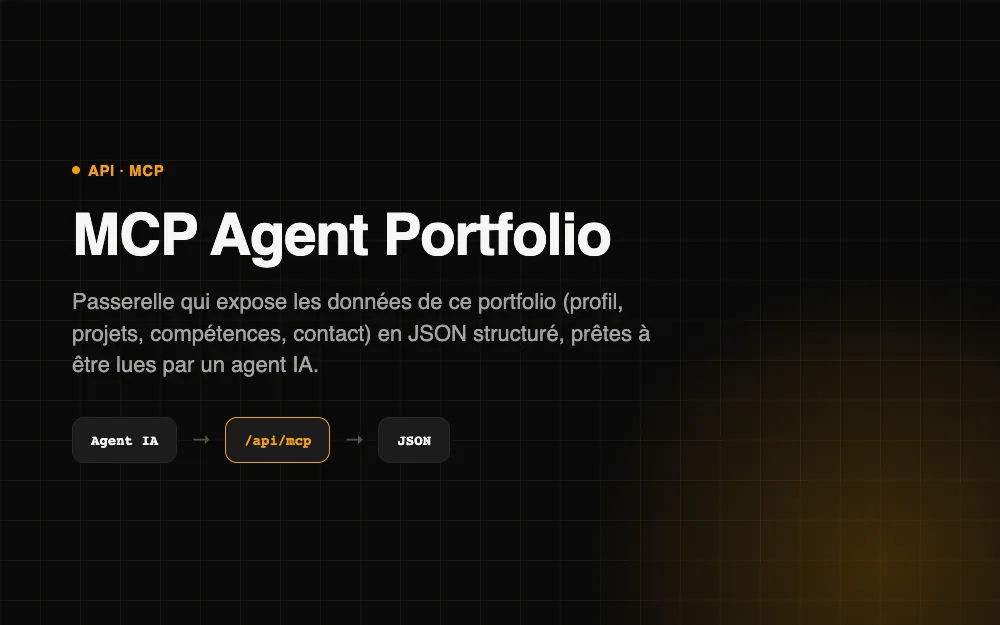
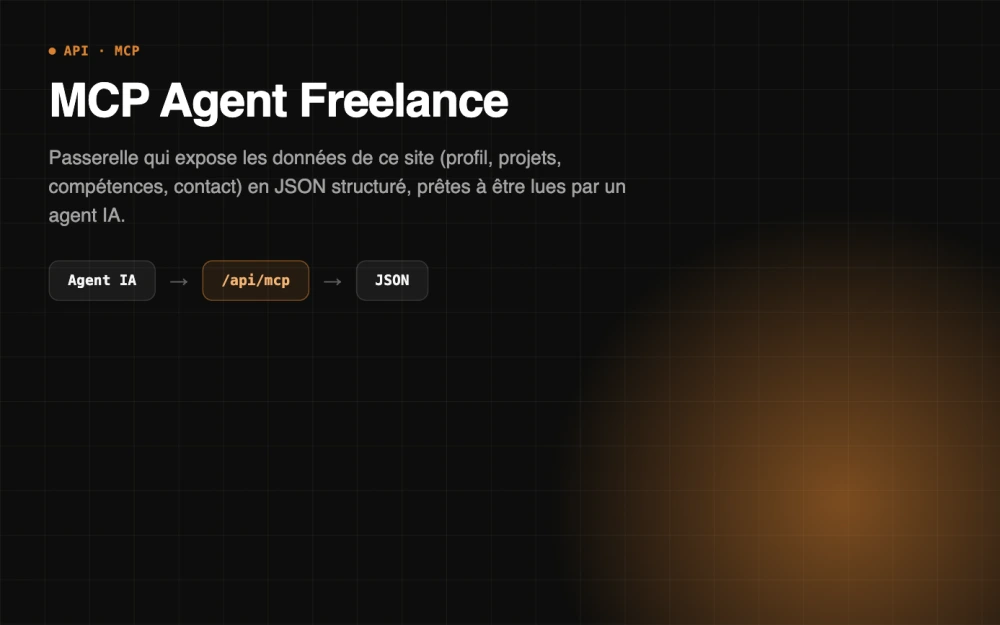
fix(hero,approche,projets): padding mobile, surlignage "gagner", image MCP Agent
ApproachSection : le conteneur n'avait pas de px-4 (seule section du site
dans ce cas), le texte touchait les bords en mobile.

Hero : le surlignage sous "gagner" utilisait un span inline-block +
enfant absolute inset-x-0, dont la largeur ne correspondait pas toujours
exactement au texte (debordement visible en mobile) et chevauchait les
descendantes du texte. Remplace par un background-image directement sur
le span du texte, qui colle exactement a sa boite et se limite a une
fine ligne sous la ligne de base.

Image de couverture du projet MCP Agent : le texte "Portfolio" etait
mais rendu en dur (webp), donc toujours visible malgre le renommage en
"MCP Agent Freelance" fait plus tot dans le contenu. Regeneree avec le
bon texte, meme style (grille, glow orange, badges de flux).

diff --git a/src/components/Hero.tsx b/src/components/Hero.tsx
@@ -81,13 +81,11 @@ export function Hero() {
                 Programmer
                 <br />
                 pour{" "}
-                <span className="relative inline-block text-[#E87C0A]">
+                <span
+                  className="text-[#E87C0A] [background-repeat:no-repeat] [background-position:0_100%] [background-size:100%_0.12em]"
+                  style={{ backgroundImage: "linear-gradient(rgba(232,124,10,.28), rgba(232,124,10,.28))" }}
+                >
                   gagner
-                  <span
-                    aria-hidden="true"
-                    className="absolute inset-x-0 bottom-1.5 -z-10 h-2.5 rounded"
-                    style={{ background: "rgba(232,124,10,.28)" }}
-                  />
                 </span>
                 <br />
                 du temps.

diff --git a/src/components/ApproachSection.tsx b/src/components/ApproachSection.tsx
@@ -6,7 +6,7 @@ import { AnimatedSection } from "@/components/AnimatedSection"
 export function ApproachSection() {
   return (
     <section id="approche" aria-label="Approche" className="py-20">
-      <div className="max-w-4xl mx-auto ">
+      <div className="max-w-4xl mx-auto px-4">
         <AnimatedSection>
           <h2 className="text-3xl font-bold text-text-primary text-center mb-12">
             Mon Approche
